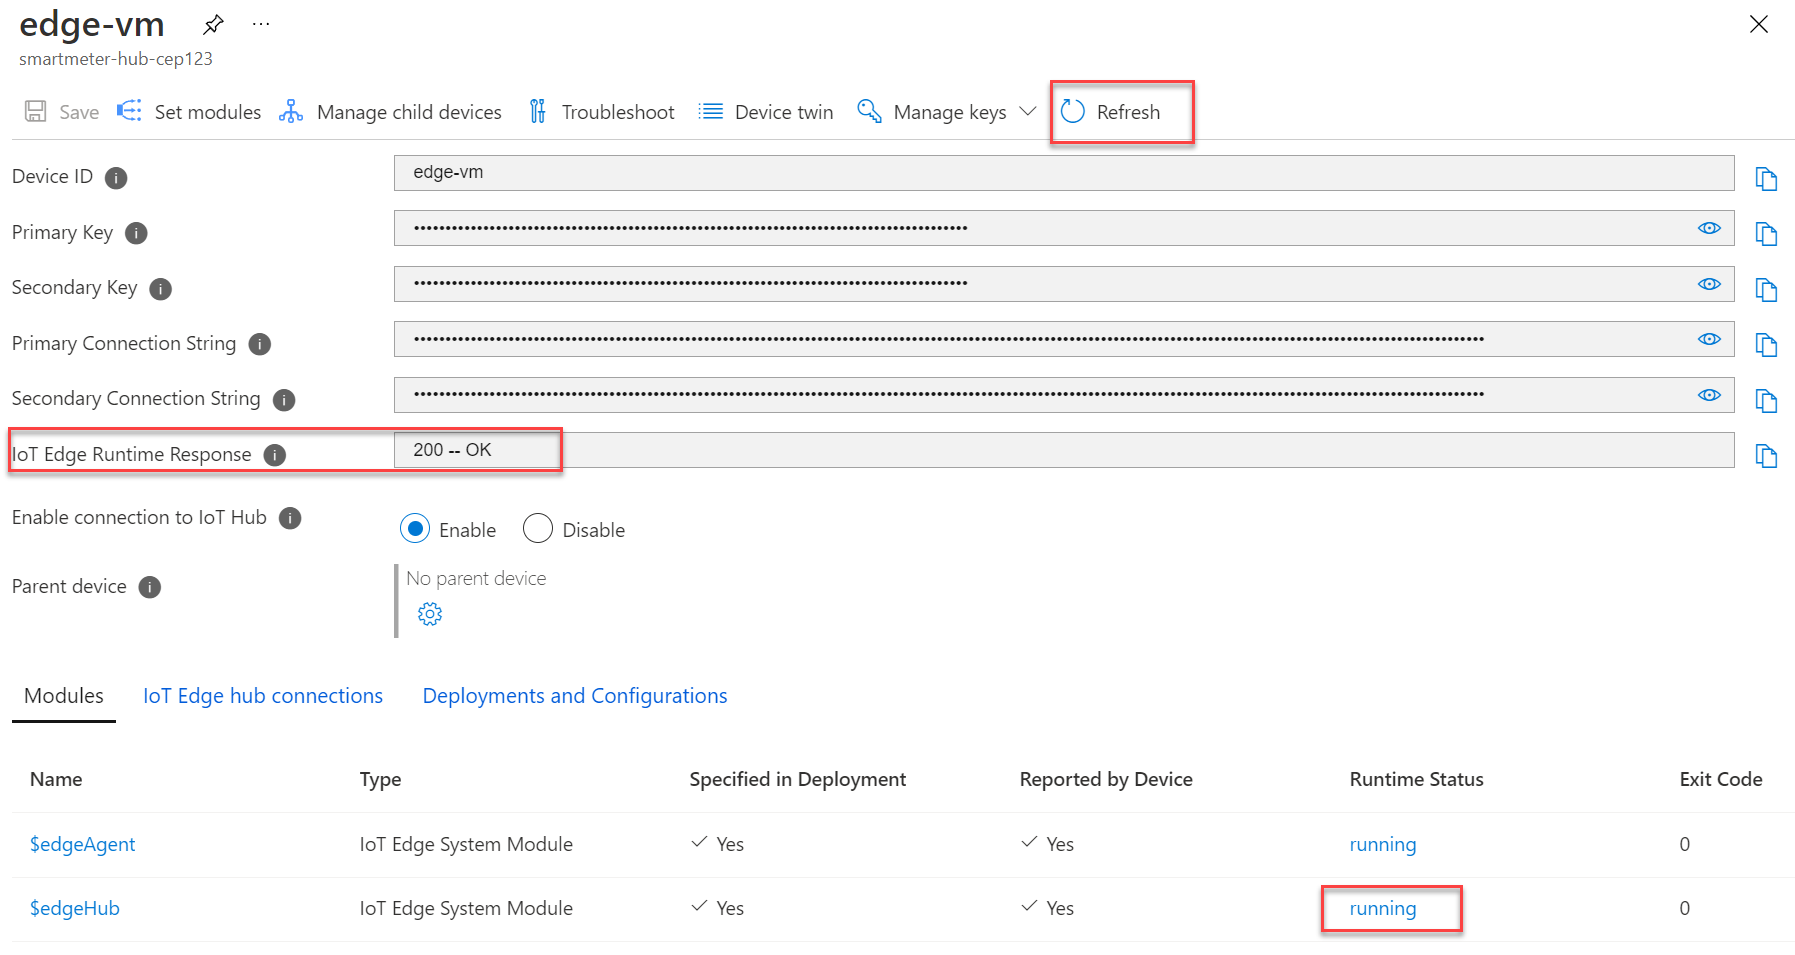
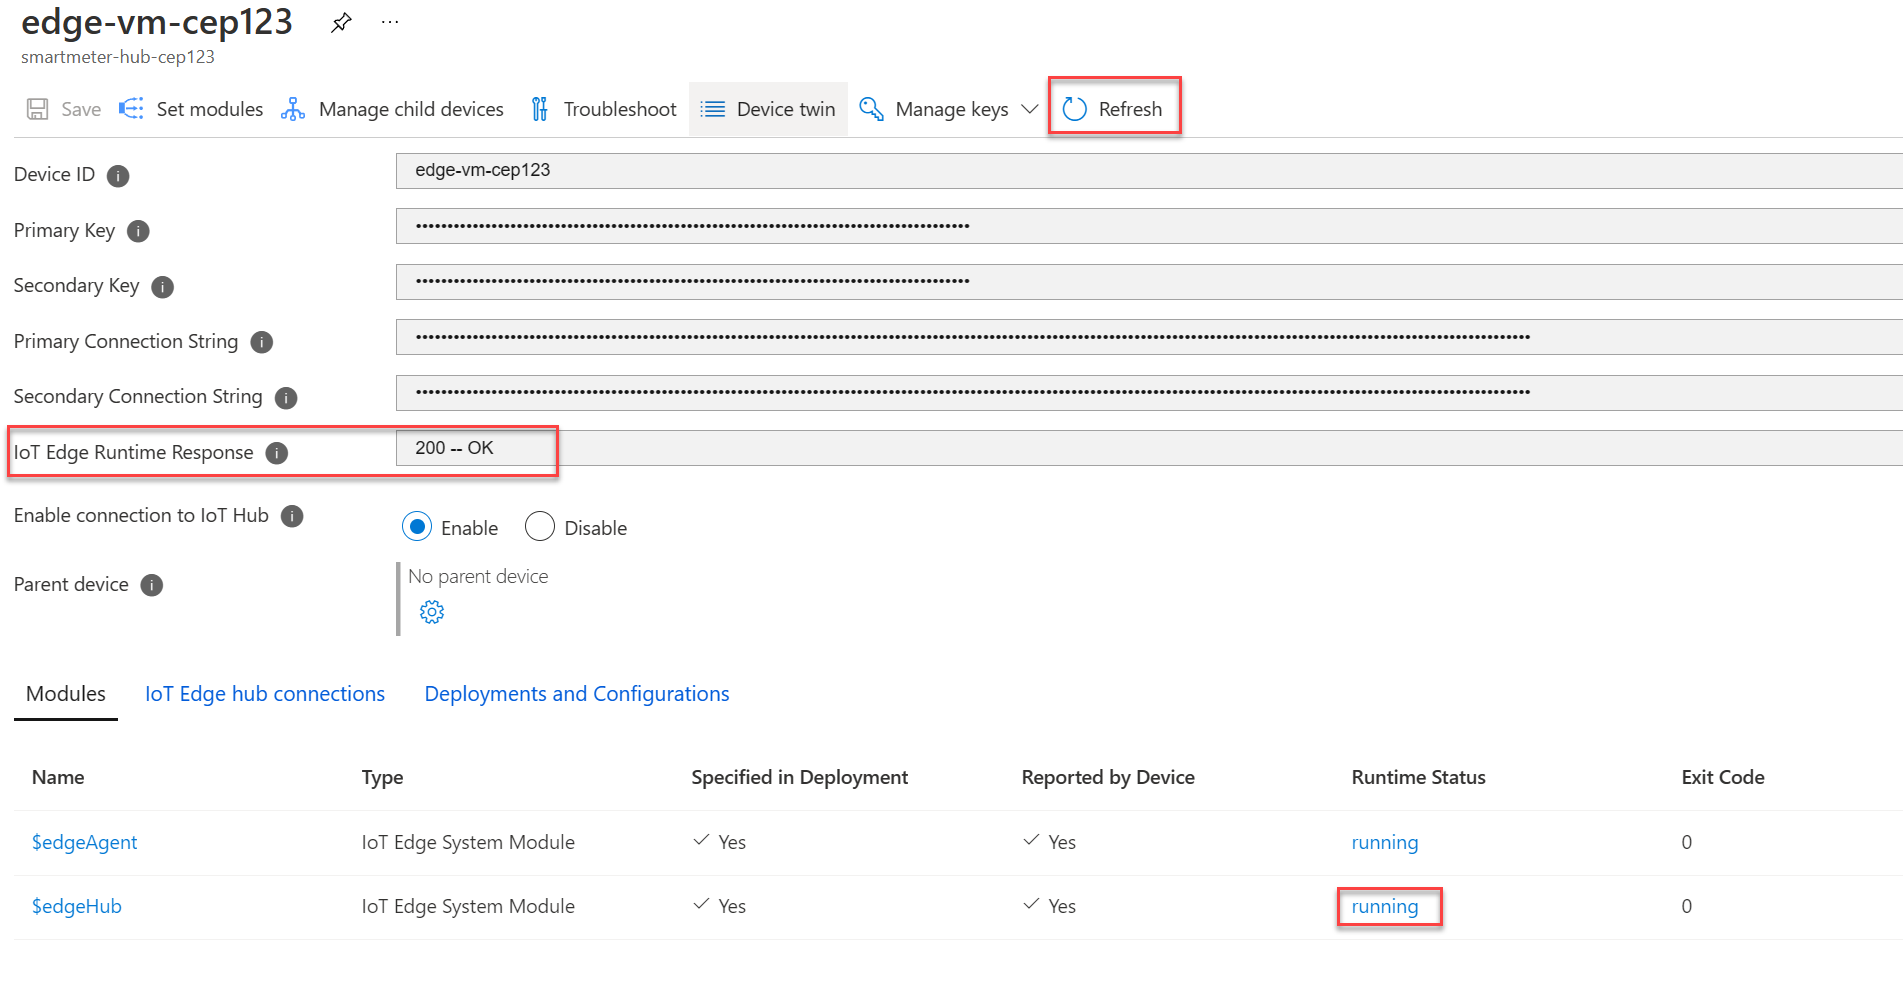
all good

diff --git a/Hands-on lab/lab-files/starter-project/SmartMeterSimulator/Sensor.cs b/Hands-on lab/lab-files/starter-project/SmartMeterSimulator/Sensor.cs
@@ -69,8 +69,7 @@ namespace SmartMeterSimulator
         public void ConnectDevice()
         {
             //TODO: 6. Connect the Device to Iot Hub by creating an instance of DeviceClient
-            DeviceClient = DeviceClient.Create(IotHubUri, "edge-vm-cep123.eastus.cloudapp.azure.com", new DeviceAuthenticationWithRegistrySymmetricKey(DeviceId, DeviceKey));
-            //DeviceClient = DeviceClient.Create(IotHubUri, new DeviceAuthenticationWithRegistrySymmetricKey(DeviceId, DeviceKey));
+            DeviceClient = DeviceClient.Create(IotHubUri, "edge-vm-cep123.eastus.cloudapp.azure.com", new DeviceAuthenticationWithRegistrySymmetricKey(DeviceId, DeviceKey));            
 
             //Set the Device State to Ready
             State = DeviceState.Connected;

diff --git a/Hands-on lab/HOL step-by-step - Internet of Things.md b/Hands-on lab/HOL step-by-step - Internet of Things.md
@@ -1186,7 +1186,9 @@ The IoT Edge runtime can be installed on various form factors, from small develo
     | Password | Enter `Password.1!!`. |
     | Confirm password | Enter `Password.1!!`.|
 
-4. Once deployment has completed, open the newly deployed edge-vm resource and record the Public IP address value in a text editor.
+    ![The Create a virtual machine form displays populated with the aforementioned values.](media/createedgevmblade.png "Create a virtual machine")
+
+4. Once deployment has completed, open the newly deployed **edge-vm-{SUFFIX}** resource and record the Public IP address value in a text editor.
 
     ![The Virtual machine overview is displayed with the Public IP address value highlighted.](media/ubuntuvm_publicipaddress.png "Virtual machine Overview")
 
@@ -1194,7 +1196,7 @@ The IoT Edge runtime can be installed on various form factors, from small develo
 
     ![The edge-vm screen displays with the Not configured link highlighted next to the DNS name label.](media/iotedge_hostnamenotconfigured.png "Host name not configured")
 
-6. On the **edge-vm-ip** Configuration screen, provide the DNS name label **edge-vm-{SUFFIX}**. It is important that this value matches the registration ID of the device in DPS. Select **Save**.
+6. On the **edge-vm-{SUFFIX}-ip** Configuration screen, provide the DNS name label **edge-vm-{SUFFIX}**. It is important that this value matches the registration ID of the device in DPS. Select **Save**.
 
     ![The edge-vm-ip Configuration screen displays with the DNS label set to edge-vm-suffix and the save button is highlighted in the toolbar menu.](media/iotedge_sethostname_portal.png "edge-vm-ip Configuration")
 
@@ -1435,13 +1437,13 @@ To configure edge-vm as an IoT Edge Gateway the $edgeHub IoT Edge module needs t
 
 1. In the Azure Portal, open the lab resource group and select the **smartmeter-hub-{SUFFIX}** IoT Hub resource.
 
-2. From the left menu, select **IoT Edge**, then select **edge-vm** from the list of devices. Notice that the IoT Edge Runtime response indicates the deployment configuration is not set, and the $edgeHub module is not running - this will soon change.
+2. From the left menu, select **IoT Edge**, then select **edge-vm-{SUFFIX}** from the list of devices. Notice that the IoT Edge Runtime response indicates the deployment configuration is not set, and the $edgeHub module is not running - this will soon change.
 
-3. On the **edge-vm** screen, select **Set modules** from the top toolbar menu.
+3. On the **edge-vm-{SUFFIX}** screen, select **Set modules** from the top toolbar menu.
 
     ![The edge-vm screen displays with the Set modules button highlighted in the toolbar menu.](media/iotedge_setmodules.png "Set IoT Edge modules")
 
-4. On the **Set modules on device: edge-vm** screen, select the **Routes** tab and establish the following route. Once complete, select **Review + Create**, then **Create** on the review screen.
+4. On the **Set modules on device: edge-vm-{SUFFIX}** screen, select the **Routes** tab and establish the following route. Once complete, select **Review + Create**, then **Create** on the review screen.
 
    | Route Name | Route Value | Description |
    |------------|-------------|-------------|
@@ -1449,21 +1451,43 @@ To configure edge-vm as an IoT Edge Gateway the $edgeHub IoT Edge module needs t
 
     ![The Set Modules screen displays with the Routes tab selected and the preceding route.](media/iotedge_setmodules_routes.png "IoT Edge Routes")
 
-5. Wait a few moments and refresh the **edge-vm** screen. Note that the IoT Edge Runtime Response now displays **200 -- OK** and the $edgeHub module is now running.
+5. Wait a few moments and refresh the **edge-vm-{SUFFIX}** screen. Note that the IoT Edge Runtime Response now displays **200 -- OK** and the $edgeHub module is now running (you may need to refresh a few times to see the $edgeHub module running successfully).
 
     ![The edge-vm screen displays with the IoT Edge Runtime Response displaying a status of 200 and the $edgeHub module displays as running.](media/iotedge_runtime200_edgehubrunning.png "edge-vm status")
 
 ### Task 4: Update device client to communicate through the IoT Edge Gateway
 
-Individual downstream device clients need to be configured to communicate directly through the IoT Edge Gateway device rather than to the IoT Hub directly.
+Individual downstream device clients need to be configured to communicate directly through the IoT Edge Gateway device rather than to the IoT Hub directly. In this task, the meters located in the second (right) building of the simulator will be configured to send telemetry through the IoT Edge transparent gateway. These are Devices 7, 8, and 9.
 
-1. In Visual Studio, open the **Sensor.cs** file from within the SmartMeterSimulator.
+1. In the Azure Portal, open the lab resource group and locate and select the **smartmeter-hub-{SUFFIX}** IoT Hub.
 
-2. Locate the line **//TODO: 6. Connect the Device to Iot Hub by creating an instance of DeviceClient**, and replace the **IotHubUri** hostname variable with a string value with the IP address of **edge-vm**. This will override the IoT Hub host name provided by the DPS and instead route all messages to the IoT Edge Gateway.
+2. From the left menu, select **IoT devices**.
 
-    ![A code snippet displays with the IP address string value highlighted.](media/deviceconnectiontogatewayip.png "IoT Edge Gateway IP")
+3. From the list of IoT devices, select **Device7**.
 
-3. Locate **//TODO: 12 - Install and trust IoT Edge Gateway root certificate** and replace it with the following listing. This code will trust the root certificate of the IoT Edge gateway device.
+   ![The smartmeter-hub-{SUFFIX} IoT devices screen displays with IoT devices selected in the left menu and Device7 highlighted in the list of devices.](media/iotdevices_list_device7.png "IoT devices list")
+
+4. Assign **edge-vm-{SUFFIX}** as the parent device. This will allow this device to communicate through the IoT Edge transparent gateway. Select the cog icon next to the **Parent device** field.
+
+    ![The IoT device screen displays with the cog icon selected next to the Parent device field label.](media/device_setparentdevice_cog.png "IoT device details")
+
+5. On the **Set an IoT Edge device as parent device** screen, select **edge-vm-{SUFFIX}** from the listing, then select **OK**.
+
+    ![The Set an IoT Edge device as parent device screen displays with edge-vm-{SUFFIX} selected and the OK button is highlighted.](media/iotedge_setparent_selection.png "IoT Edge parent device selection")
+
+6. Select **Save** on the IoT Device screen to commit the changes.
+
+    ![The IoT device screen displays with the Save button selected in the toolbar menu. The populated Parent device field is highlighted.](media/iothub_devicescreen_save.png "Save IoT device settings")
+
+7. Repeat steps 1-6 for **Device8** and **Device9**.
+
+8. In Visual Studio, open the **Sensor.cs** file from within the SmartMeterSimulator.
+
+9. Locate the line **//TODO: 6. Connect the Device to Iot Hub by creating an instance of DeviceClient** and add the gateway hostname as the second parameter. This parameter will route all messages to the IoT Edge Gateway.
+
+    ![A code snippet displays with the IoT Edge Gateway hostname string value highlighted.](media/deviceconnectiontogatewayip.png "IoT Edge Gateway connectivity")
+
+10. Locate **//TODO: 12 - Install and trust IoT Edge Gateway root certificate** and replace it with the following listing. This code will trust the root certificate of the IoT Edge gateway device. Replace {CERTPATH} with the full path to the certificate you downloaded from the cloud shell earlier.
 
     ```C#
     //TODO: 12 - Install and trust IoT Edge Gateway root certificate
@@ -1485,13 +1509,23 @@ Individual downstream device clients need to be configured to communicate direct
     }
     ```
 
-4. Run the application, select one or more building windows and choose **Register**. Once the windows display as cyan, select the **Connect** button for the devices to start sending telemetry through the IoT Edge Gateway.
+11. Run the application, select all three windows in the second building (on the right of the simulator) and choose **Register**. Once the windows display as cyan, select the **Connect** button for the devices to start sending telemetry through the IoT Edge Gateway.
 
     ![The Smart Meter Simulator displays with multiple smart meters sending telemetry."](media/smartmetersim_registerandconnect.png "Smart Meter Simulator")
 
     >**Note**: You may be prompted to install the IoT Edge Gateway certificate, select **Yes** if this occurs.
 
     ![A Security Warning dialog displays regarding installation of a certificate.](media/osinstallcertificate.png "Security Warning dialog")
+
+12. Now it's time to verify telemetry is being sent to IoT Hub. In Visual Studio, expand the **View** menu and choose **Cloud Explorer**.
+
+13. Expand the subscription being used for this lab, and expand the **IoT Hubs** node. Right-click on **smartmeter-hub-{SUFFIX}** to display the context menu and select the **Start Monitoring Built-in Event Endpoint** item.
+
+    ![The Cloud Explorer displays with a subscription expanded along with the IoT Hubs node. The smartmeter-hub-{SUFFIX} has its context menu expanded with the Start Monitoring Built-in Event Endpoint item selected.](media/cloudexplorer_iothubcontextmenu.png "Monitor Built-in Event Endpoint")
+
+14. The **Output** panel will start displaying IoT Hub events including telemetry events.
+
+    ![The Output pane displays with incoming telemetry events.](media/output_iothubevents.png "IoT Hub Output")
 
 ## After the hands-on lab
 
